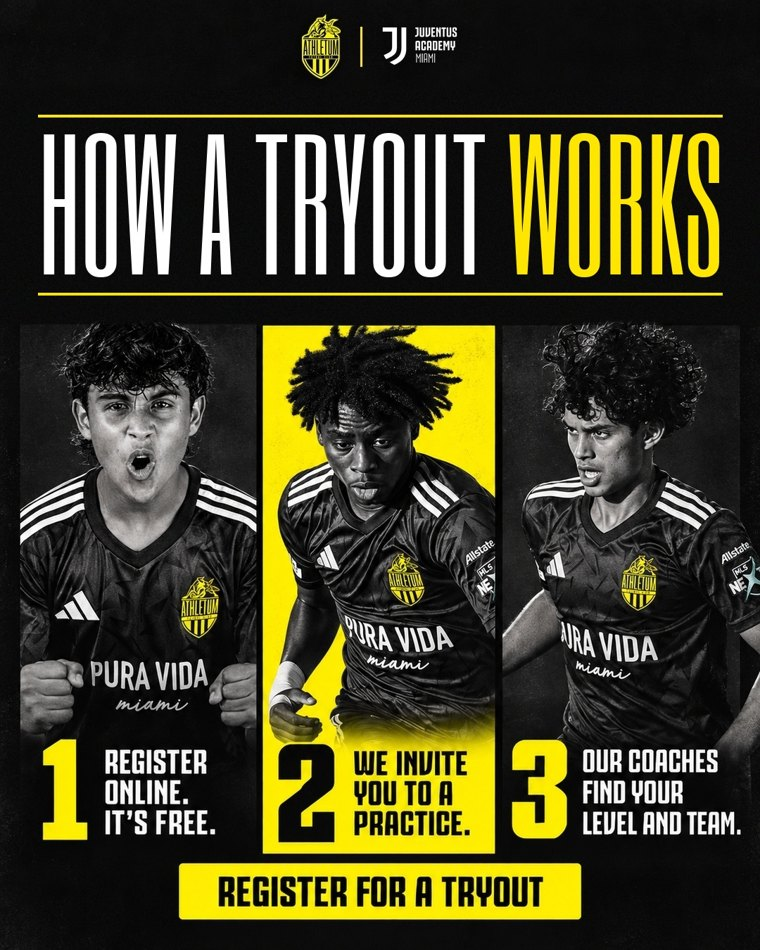
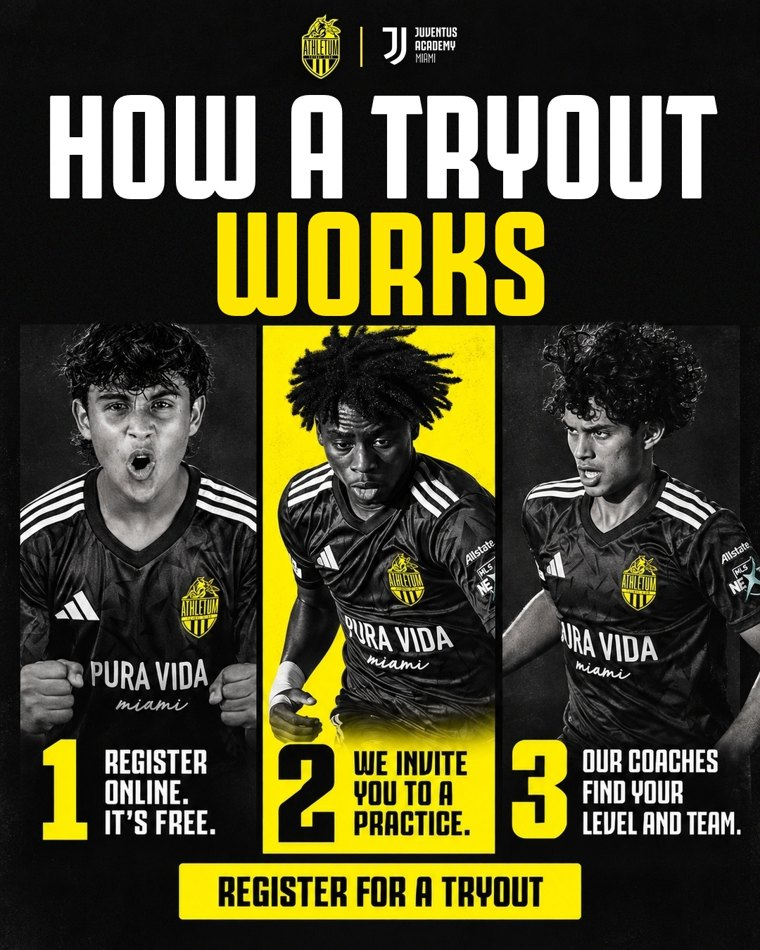
STATIC-4: titular con la letra gruesa de los demás anuncios

Changed region(s): [[0.0303, 0.0916, 0.9684, 0.3358]]

diff --git a/index.html b/index.html
@@ -112,8 +112,8 @@ footer{margin-top:40px;color:var(--muted);font-size:14px;border-top:1px solid va
 </article><article class="ad pend" data-id="S4">
   <header><span class="num">3</span><h3>STATIC-4 · HOW A TRYOUT WORKS</h3><span class="estado" data-estado>Nueva · por aprobar</span></header>
   <div class="cuerpo">
-    <div class="media"><img src="assets/S4.jpg?v=3" alt="STATIC-4 · HOW A TRYOUT WORKS" loading="lazy">
-      <a class="dl" href="assets/S4_1080.jpg?v=3" target="_blank" rel="noopener">Ver a tamaño real</a>
+    <div class="media"><img src="assets/S4.jpg?v=4" alt="STATIC-4 · HOW A TRYOUT WORKS" loading="lazy">
+      <a class="dl" href="assets/S4_1080.jpg?v=4" target="_blank" rel="noopener">Ver a tamaño real</a>
       <p class="nota-pieza">Rediseño con ChatGPT: tres franjas tipo &quot;Matchday&quot; (el mismo formato que se aprobó en Las Vegas), un jugador real por paso.</p></div>
     <div class="copy">
       <div class="lbl">Texto principal · inglés <span class="hint">· se puede editar</span></div>
